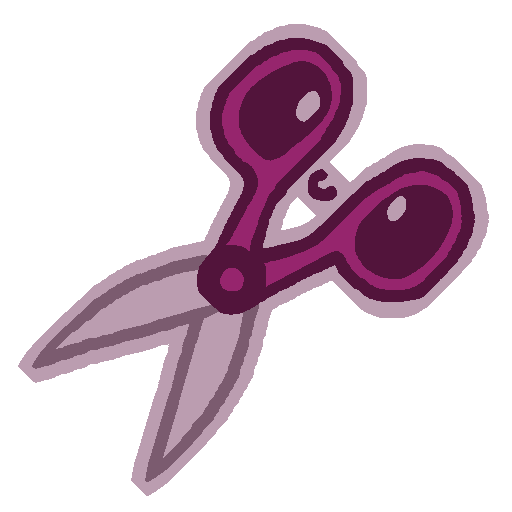
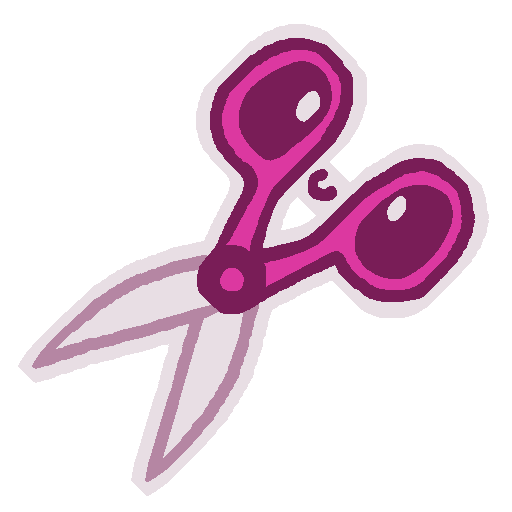
update colours

diff --git a/src/_theme.scss b/src/_theme.scss
@@ -1,7 +1,7 @@
 :root {
 	color-scheme: dark;
-	--color-primary: hsl(322, 70%, 67%);
-	--color-primary-bright: hsl(322, 80%, 77%);
+	--color-primary: hsl(322, 70%, 54%);
+	--color-primary-bright: hsl(322, 82%, 70%);
 	--color-primary-muted: hsl(322, 20%, 50%);
 	--color-neutral-0: #000;
 	--color-neutral-2: hsl(278, 57%, 5%);
